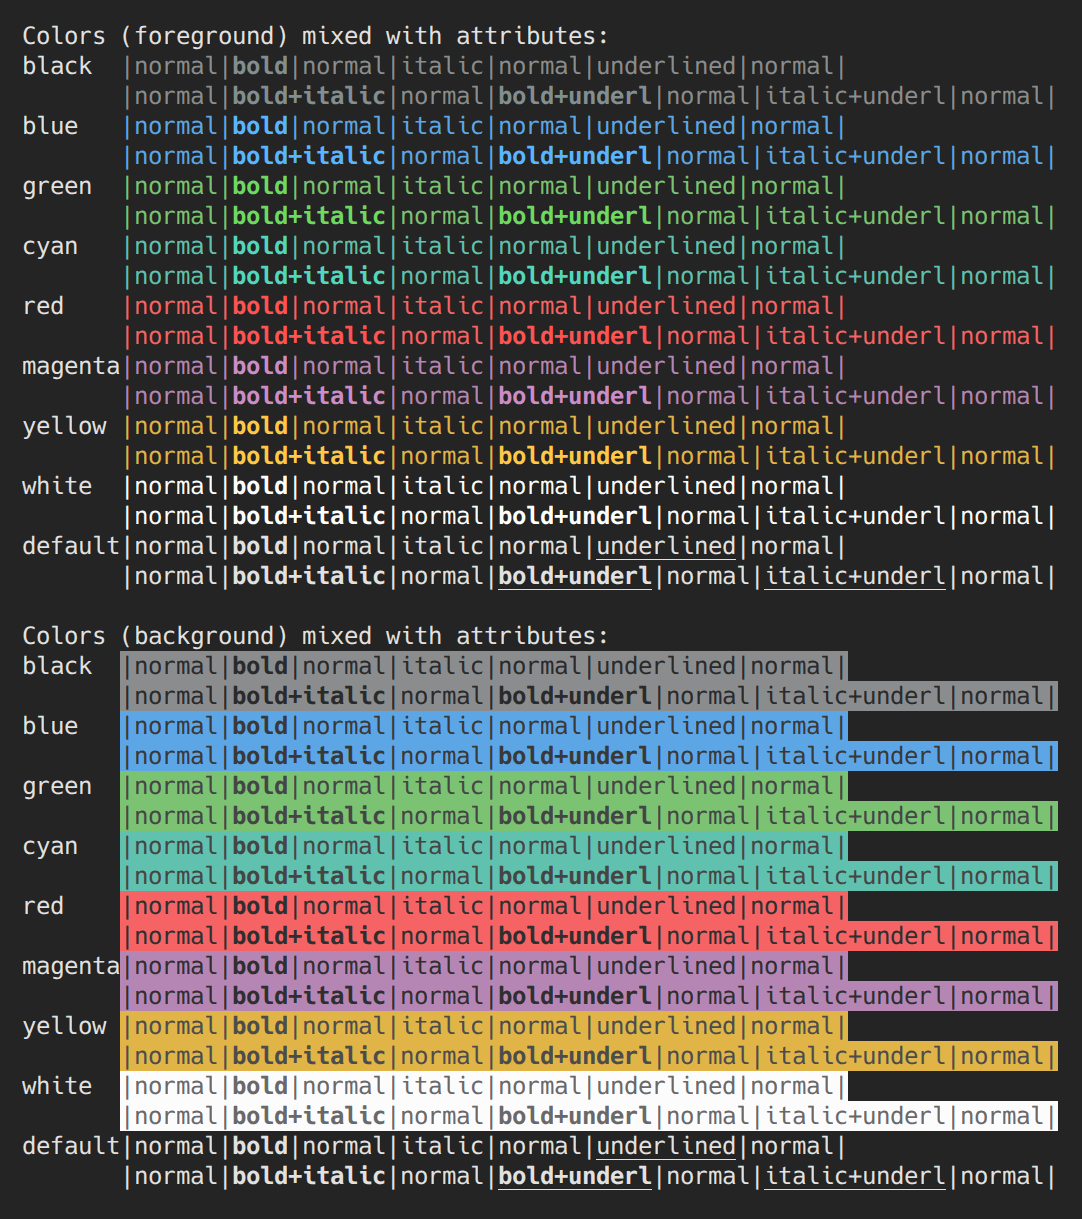
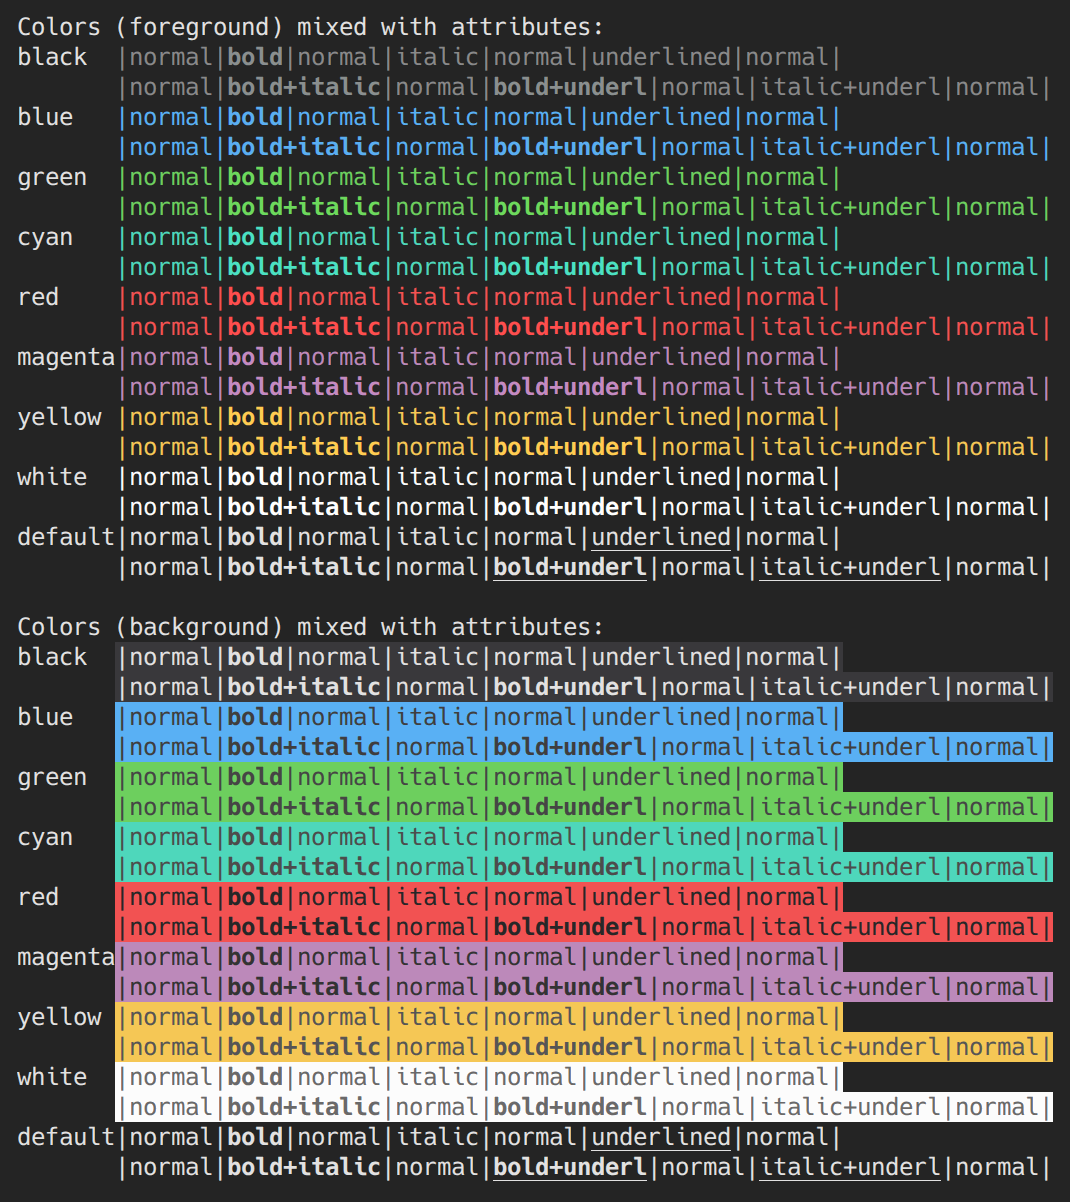
More intense terminal colors

diff --git a/README.md b/README.md
@@ -16,7 +16,7 @@ TypeScript:
 
 Terminal:
 
-<img src="img/terminal.png" alt="Terminal example" width="541" style="max-width:100%;height:auto;" />
+<img src="img/terminal.png" alt="Terminal example" width="535" style="max-width:100%;height:auto;" />
 
 ## Preview
 
